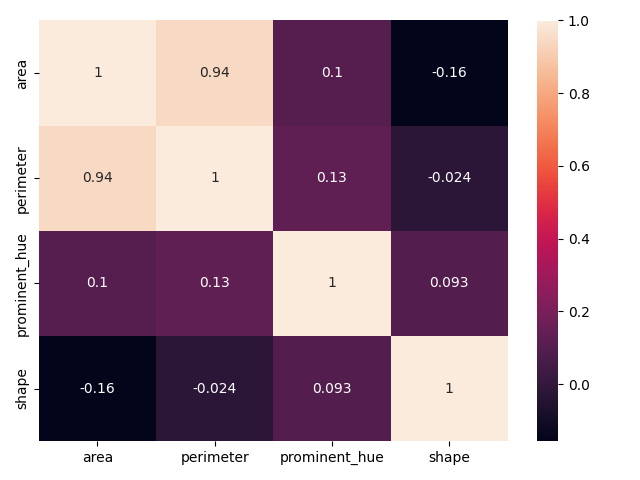
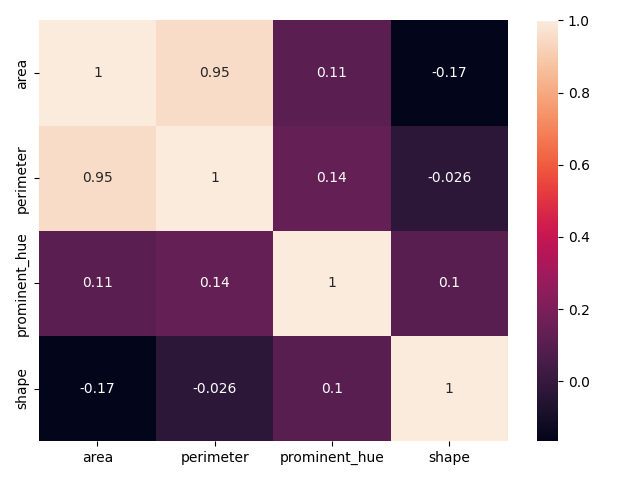
Diagrams ed.

diff --git a/Machine_Learning/performance_01.py b/Machine_Learning/performance_01.py
@@ -1,0 +1,40 @@
+import cv2 as cv
+from Fetch_data import fetch_data
+from sklearn.preprocessing import LabelEncoder, StandardScaler
+from sklearn import datasets
+from sklearn.svm import SVC
+from sklearn.pipeline import Pipeline
+from sklearn.model_selection import train_test_split, cross_val_score
+from sklearn.metrics import plot_confusion_matrix, classification_report
+
+
+
+data_path = 'C:/Users/Jurg Verhoeven/Documents/Cook3r/Testds'
+
+# Fetch the data
+foods = fetch_data(data_path)
+
+cv.destroyAllWindows()
+
+# Sample a training set while holding out 25% of the data for testing (evaluating) our classifier
+X_train, X_test, y_train, y_test = train_test_split(
+    foods.data, foods.target, test_size=0.25, random_state=0)
+
+# instantiate a classifier estimator
+clf = Pipeline([
+    ("scaler", StandardScaler()),
+    ("svm_clf", SVC(kernel="poly", degree=3, coef0=1, C=5))
+    ])
+
+# fit the classifier
+clf.fit(X_train, y_train)
+
+# show the result of the scoring method of the classifier. For SVC, the score is mean accuracy
+print("mean accuracy on the given test data and labels: {}".format(clf.score(X_test, y_test)))
+
+# compute some other metric to evaluate the model
+scoring_metric = "precision_macro"
+nr_of_folds = 5
+score = cross_val_score(clf, X_train, y_train, cv=nr_of_folds, scoring=scoring_metric)
+print("{}-fold cross validation metric {} : {}".format(nr_of_folds, scoring_metric, score))
+

diff --git a/Machine_Learning/performance_02.py b/Machine_Learning/performance_02.py
@@ -1,0 +1,43 @@
+import matplotlib.pyplot as plt
+from sklearn import datasets
+from sklearn.svm import SVC
+from sklearn.pipeline import Pipeline
+from sklearn.model_selection import train_test_split, cross_val_score
+from sklearn.preprocessing import StandardScaler
+from sklearn.metrics import plot_confusion_matrix, classification_report
+from Fetch_data import fetch_data
+
+
+data_path = 'C:/Users/Jurg Verhoeven/Documents/Cook3r/Testds'
+
+# Fetch the data
+foods = fetch_data(data_path)
+
+# Sample a training set while holding out 40% of the data for testing (evaluating) our classifier
+X_train, X_test, y_train, y_test = train_test_split(
+    foods.data, foods.target, test_size=0.4, random_state=0)
+
+# instantiate a classifier estimator
+clf = Pipeline([
+    ("scaler", StandardScaler()),
+    ("svm_clf", SVC(kernel="poly", degree=3, coef0=1, C=5))
+    ])
+
+# fit the classifier
+clf.fit(X_train, y_train)
+
+# Plot confusion matrix
+fig0, ax0 = plt.subplots(1,1)
+plot_confusion_matrix(clf, X_test, y_test, ax=ax0)
+ax0.set_title('Confusion matrix')
+plt.tight_layout()
+
+# Show detailed classification report
+y_true, y_pred = y_test, clf.predict(X_test)
+print("Detailed classification report:")
+print()
+print(classification_report(y_true, y_pred))
+print()
+
+
+plt.show(block=True)

diff --git a/Machine_Learning/Food.py b/Machine_Learning/Food.py
@@ -39,7 +39,8 @@ class Food:
         return self.prominentColor[2]
 
     def getProminentHue(self):
-        return colorsys.rgb_to_hsv(1/self.getProminentColorRed(), 1/self.getProminentColorGreen(), 1/self.getProminentColorBlue())[0]
+        return int(colorsys.rgb_to_hsv(1/self.getProminentColorRed(), 1/self.getProminentColorGreen(), 1/self.getProminentColorBlue())[0]*255)
+        
 
     def determineArea(self, image):
         gray = cv2.cvtColor(image, cv2.COLOR_BGR2GRAY)
